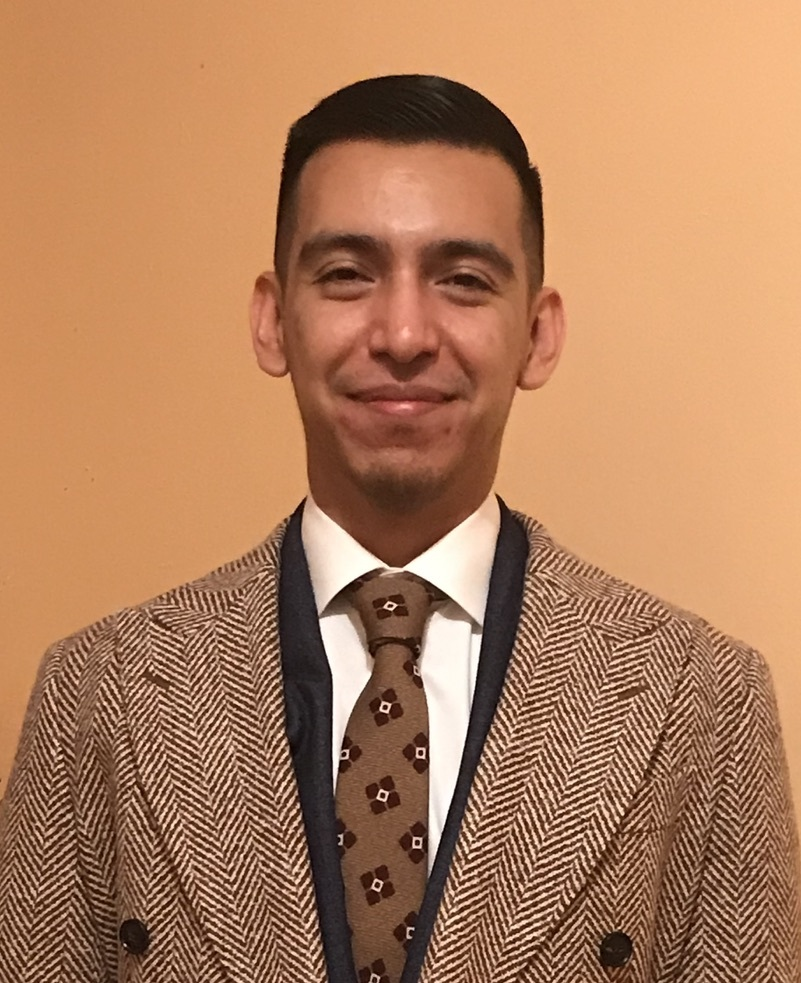
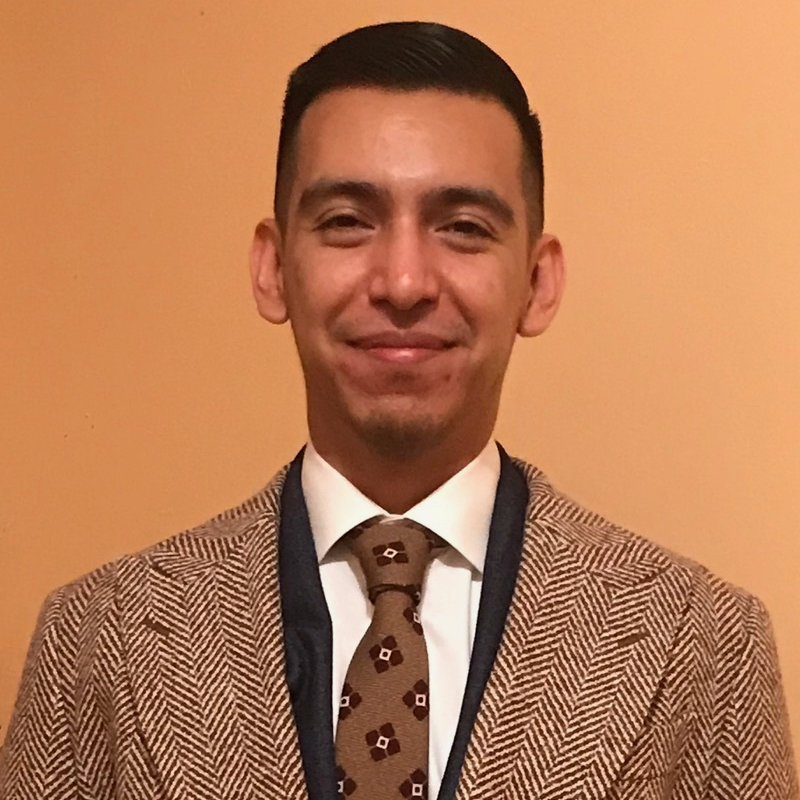
Fix animation stutter, enhanced images quality, and made addition slight touches

diff --git a/frontend/src/components/main/main_page.jsx b/frontend/src/components/main/main_page.jsx
@@ -2,8 +2,6 @@ import React from "react";
 import Navbar from "../nav/navbar_form";
 import splash_img from "../../images/splash_image4.jpg";
 import "./main.scss";
-import { FontAwesomeIcon } from "@fortawesome/react-fontawesome";
-import { faAngellist } from "@fortawesome/free-brands-svg-icons";
 
 import { FontAwesomeIcon } from "@fortawesome/react-fontawesome";
 import { faAngellist } from "@fortawesome/free-brands-svg-icons";
@@ -19,7 +17,7 @@ import profile_4 from "../../images/profile_4.png";
 import book from "../../images/book.png";
 import calendar from "../../images/calendar.png";
 import certificate from "../../images/certificate.png";
-import children from "../../images/children.png";
+import children from "../../images/children.jpg";
 
 class MainPage extends React.Component {
   render() {
@@ -60,10 +58,9 @@ class MainPage extends React.Component {
             </p>
           </div>
         </div>
-
+        
         <div className="children-container">
-          <img className="children" src={children} alt="children" />
-
+        <img className="children" src={children} alt="children" />
           <div className="card-container">
             <div className="card">
               <div className="card-front">Who We Are</div>
@@ -162,7 +159,6 @@ class MainPage extends React.Component {
             </div>
           </div>
         </div>
-        <FontAwesomeIcon icon={faAngellist} />
         <footer>Copyright &copy; 2020 CAMP</footer>
       </div>
     );

diff --git a/frontend/src/components/main/main.scss b/frontend/src/components/main/main.scss
@@ -96,7 +96,7 @@ footer {
   transform: translate(-50%);
   height: 300px;
   font-family: Arial, Helvetica, sans-serif;
-  box-shadow: 0 2px 20px rgba(0, 0, 0, 0.1);
+  box-shadow: 0 2px 20px rgba(0, 0, 0, 0.14);
   position: relative;
   top: -38px;
   z-index: 1;
@@ -136,6 +136,9 @@ footer {
   color: orange;
   text-align: center;
   margin-top: 125px;
+  border-top: 2px solid;
+  border-bottom: 2px solid;
+  padding: 10px 0px 10px;
 }
 
 .profile-container {
@@ -188,19 +191,24 @@ footer {
   width: 300px;
   height: 300px;
   perspective: 1000px;
+  position: relative;
+  &:hover,
+  &:active,
+  &:focus {
+    .card {
+      transform: rotateY(180deg);
+    }
+  }
 }
 
 .card {
-  position: absolute;
-  width: 100%;
-  height: 100%;
+  position: relative;
+  width: 300px;
+  height: 300px;
   text-align: center;
-  transition: transform 0.6s;
+  transition: transform .5s ease-in-out;
+  transform-origin: 50% 50%;
   transform-style: preserve-3d;
-}
-
-.card:hover {
-  transform: rotateY(180deg);
 }
 
 .card-front,
